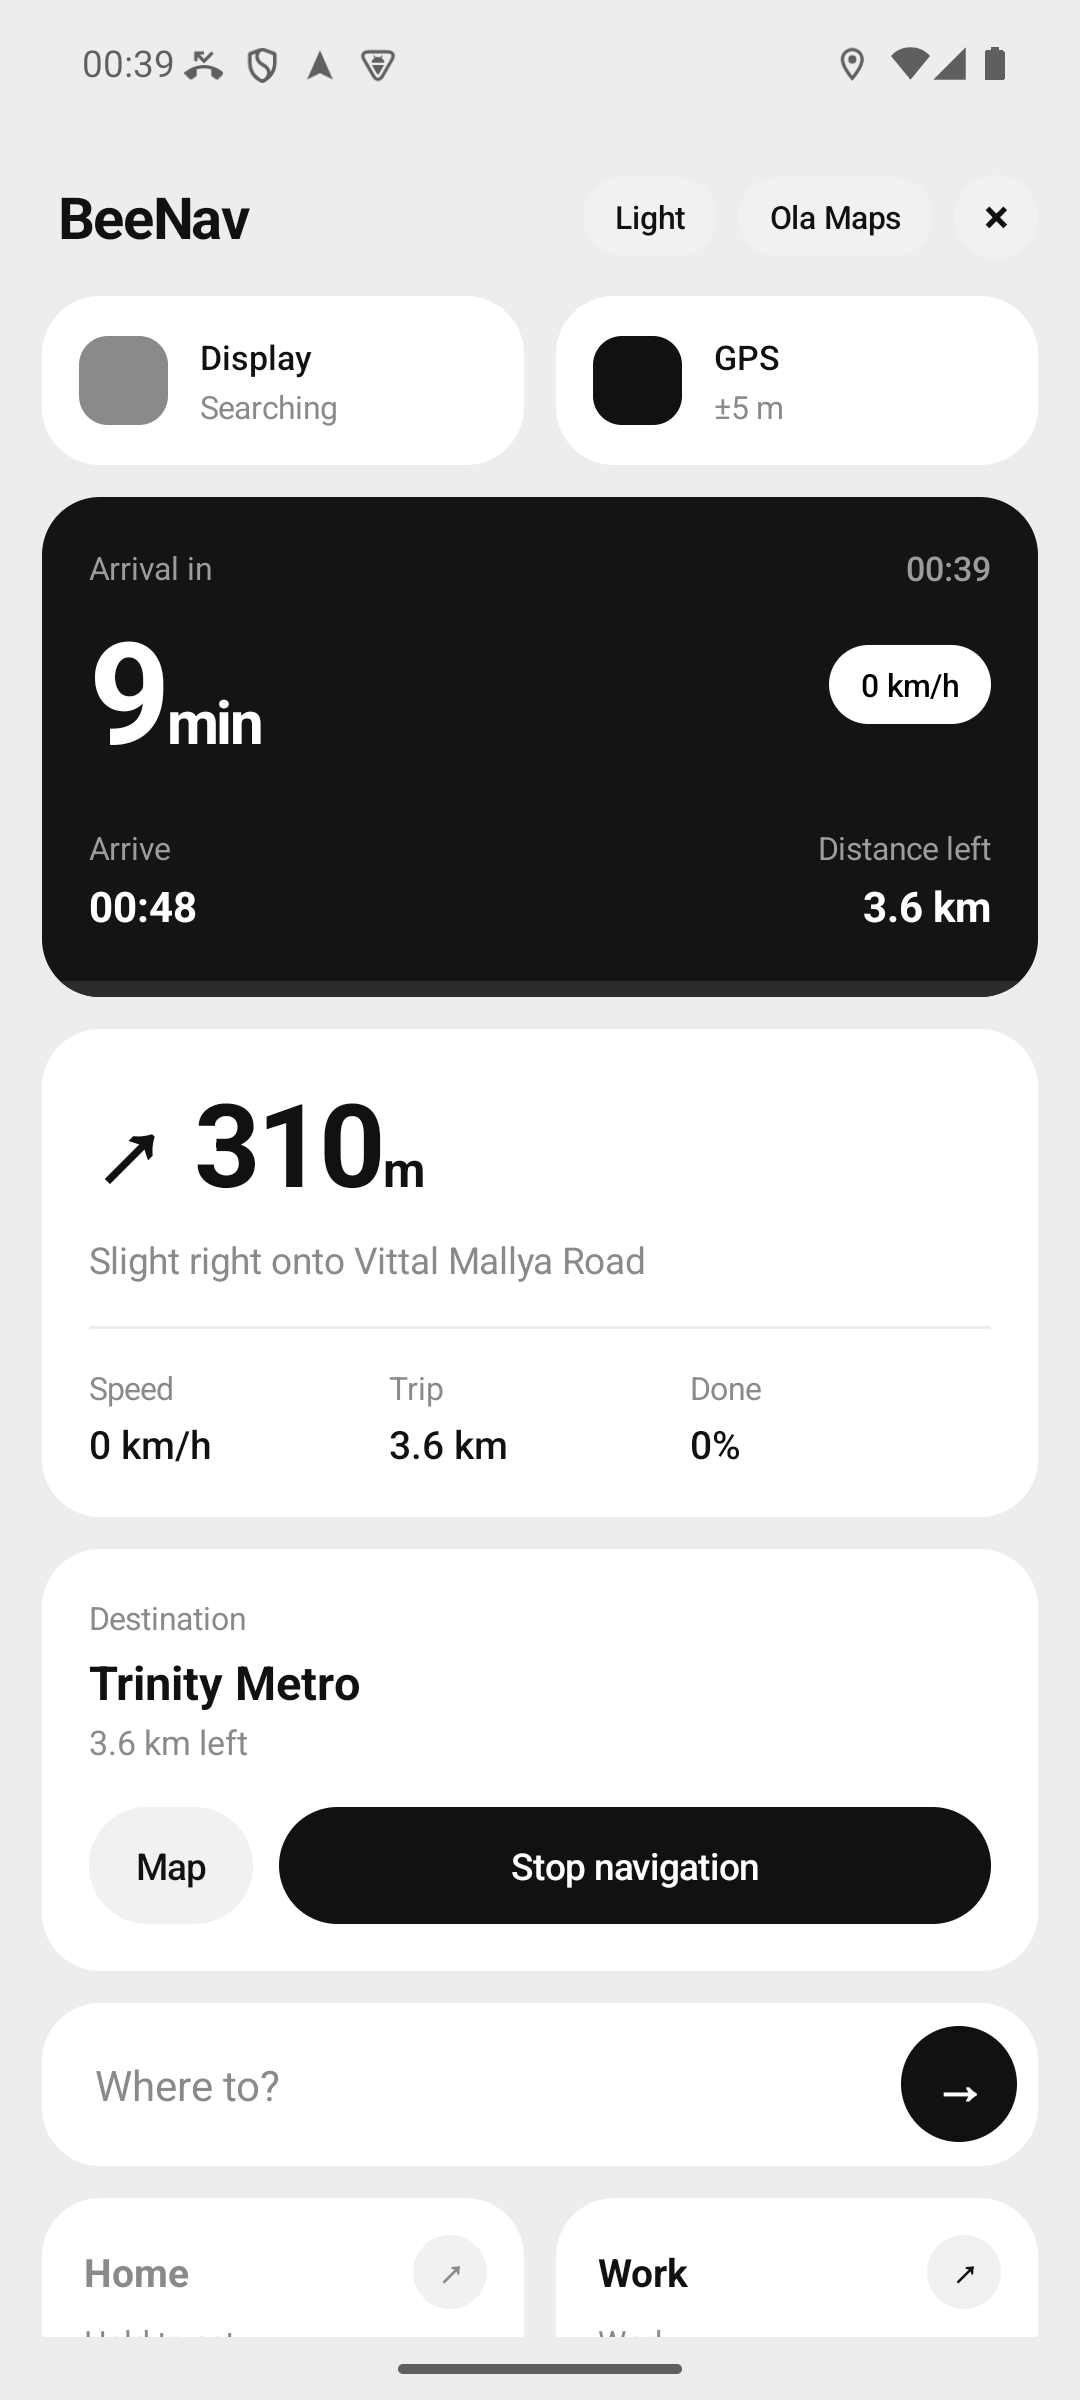
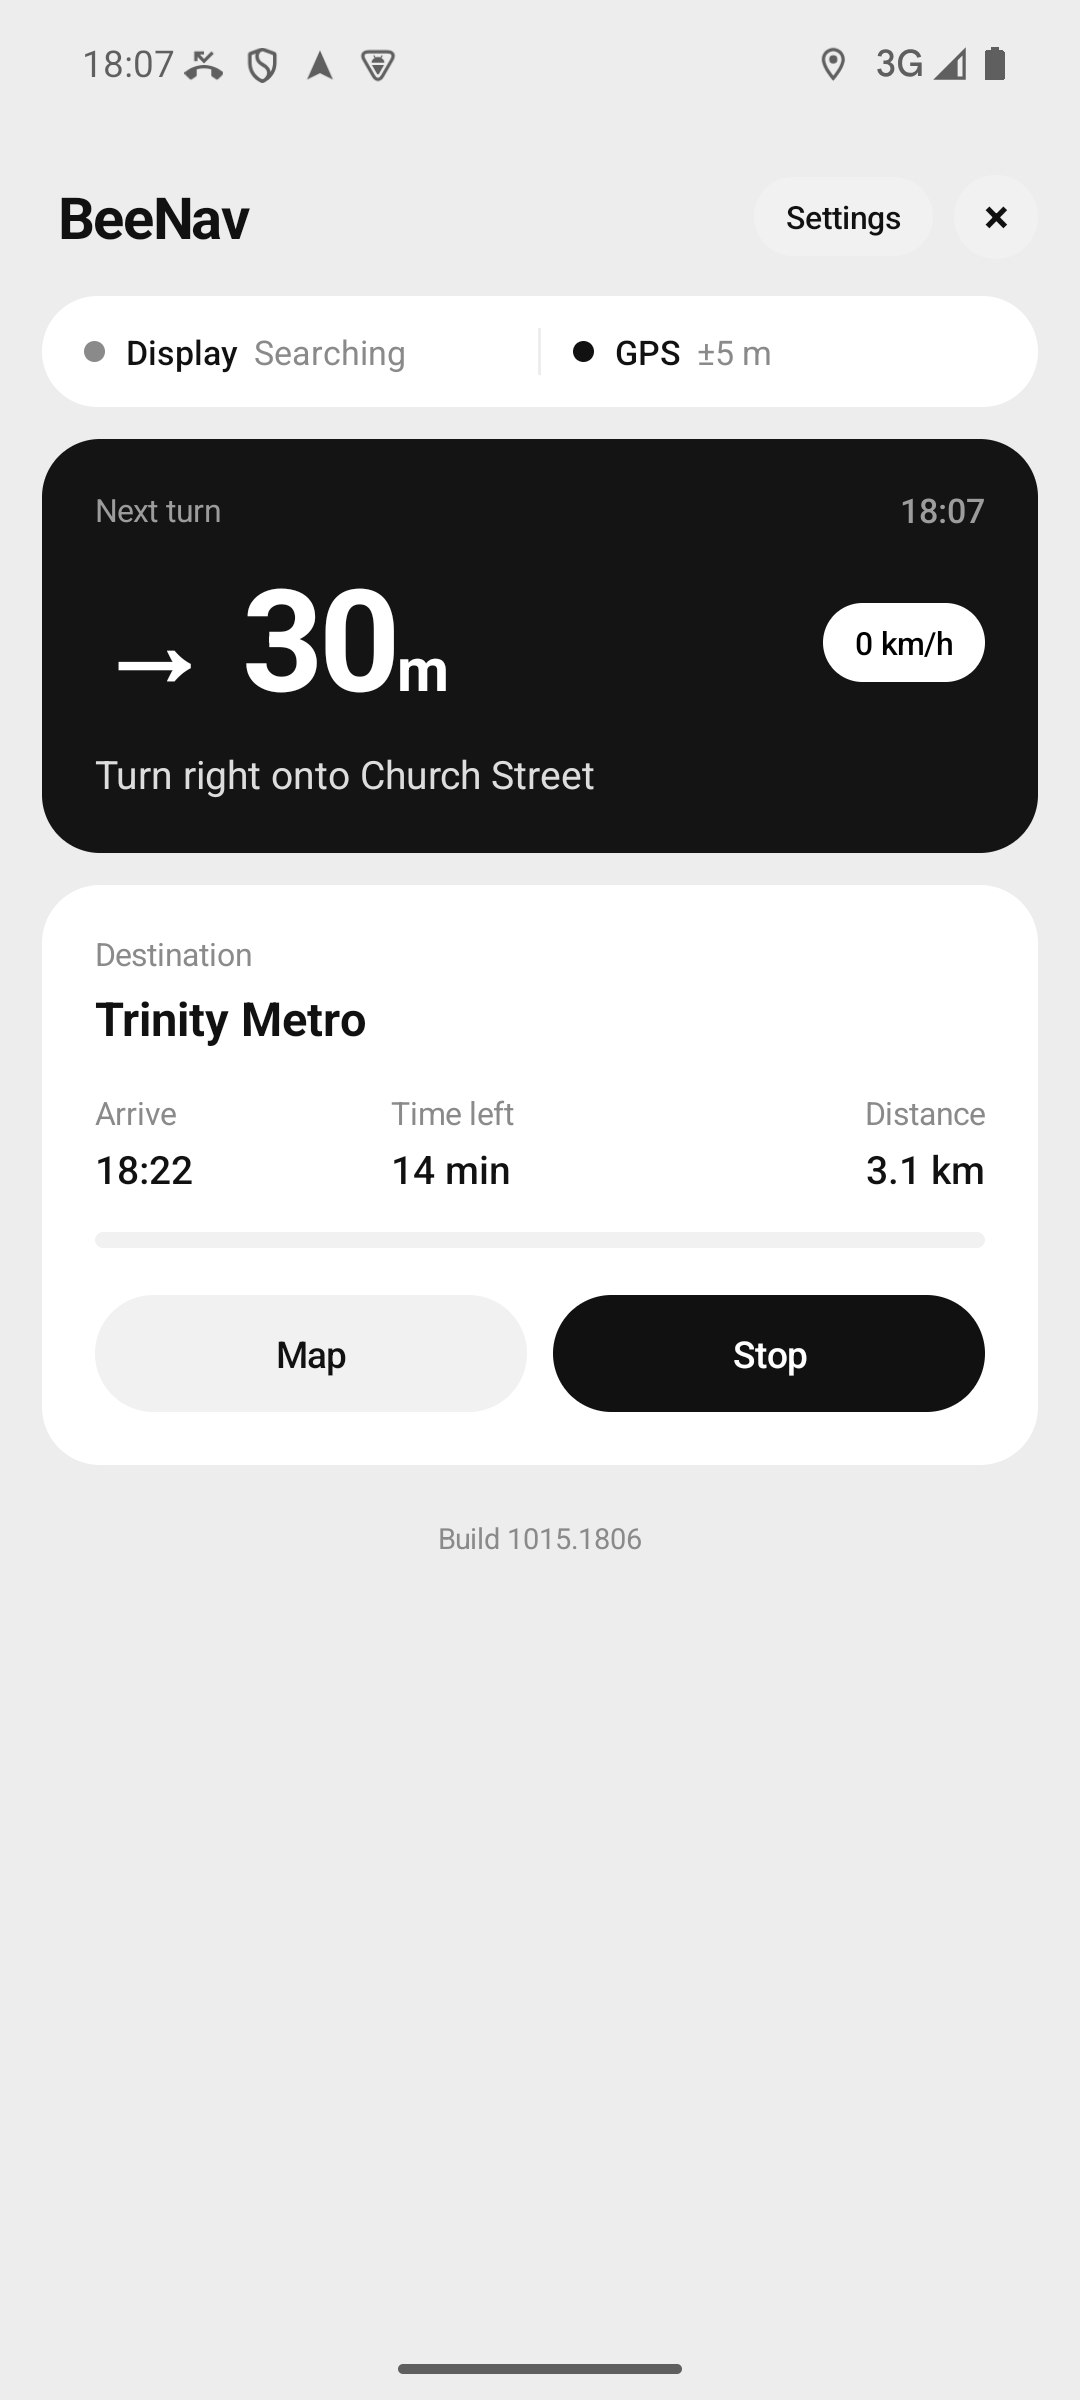
Centre the middle trip stat; new screenshots

diff --git a/src/dev/guts/beelinenav/MainActivity.java b/src/dev/guts/beelinenav/MainActivity.java
@@ -820,7 +820,7 @@ public final class MainActivity extends CardActivity implements NavService.Liste
         arriveText = value();
         tripStats.addView(stat("Arrive", arriveText, grey, Gravity.START), new LinearLayout.LayoutParams(0, -2, 1));
         timeLeftText = value();
-        tripStats.addView(stat("Time left", timeLeftText, grey, Gravity.START), new LinearLayout.LayoutParams(0, -2, 1));
+        tripStats.addView(stat("Time left", timeLeftText, grey, Gravity.CENTER_HORIZONTAL), new LinearLayout.LayoutParams(0, -2, 1));
         leftText = value();
         tripStats.addView(stat("Distance", leftText, grey, Gravity.END), new LinearLayout.LayoutParams(0, -2, 1));
         tripCard.addView(tripStats, new LinearLayout.LayoutParams(-1, -2));
